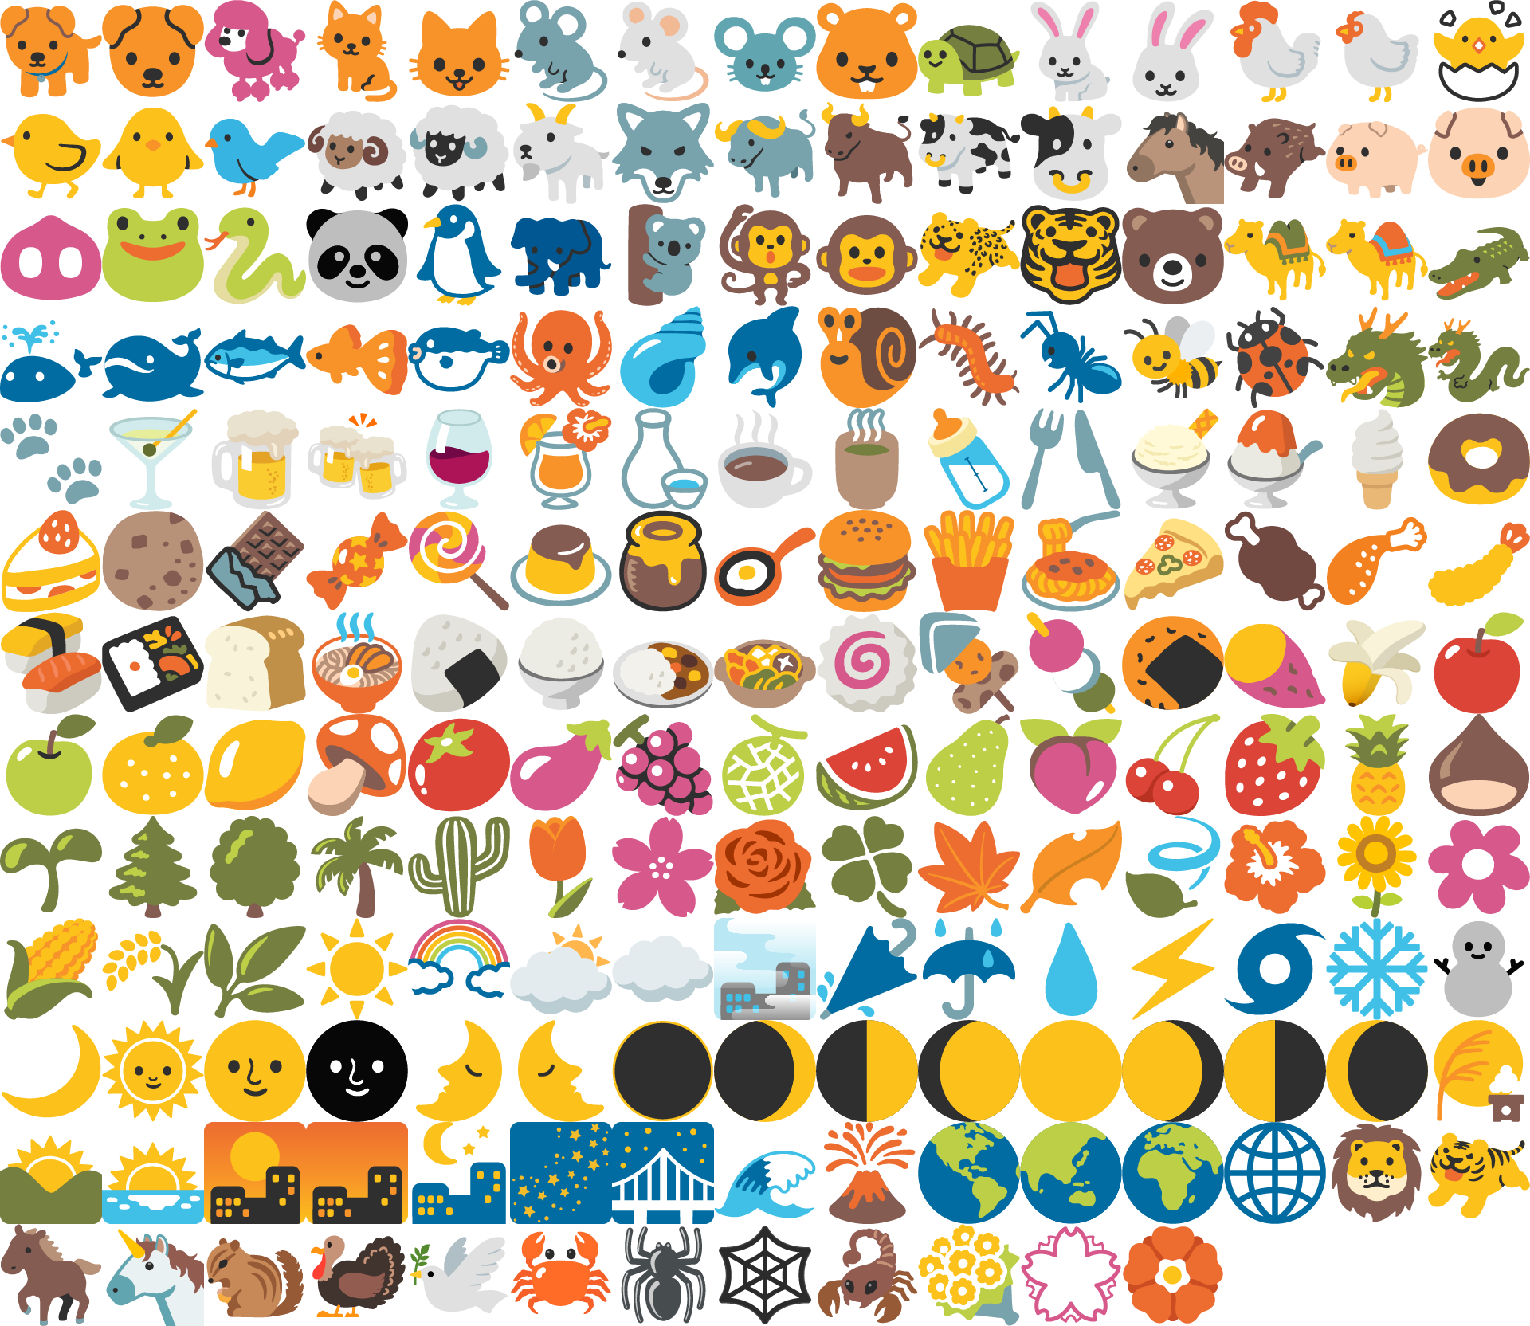
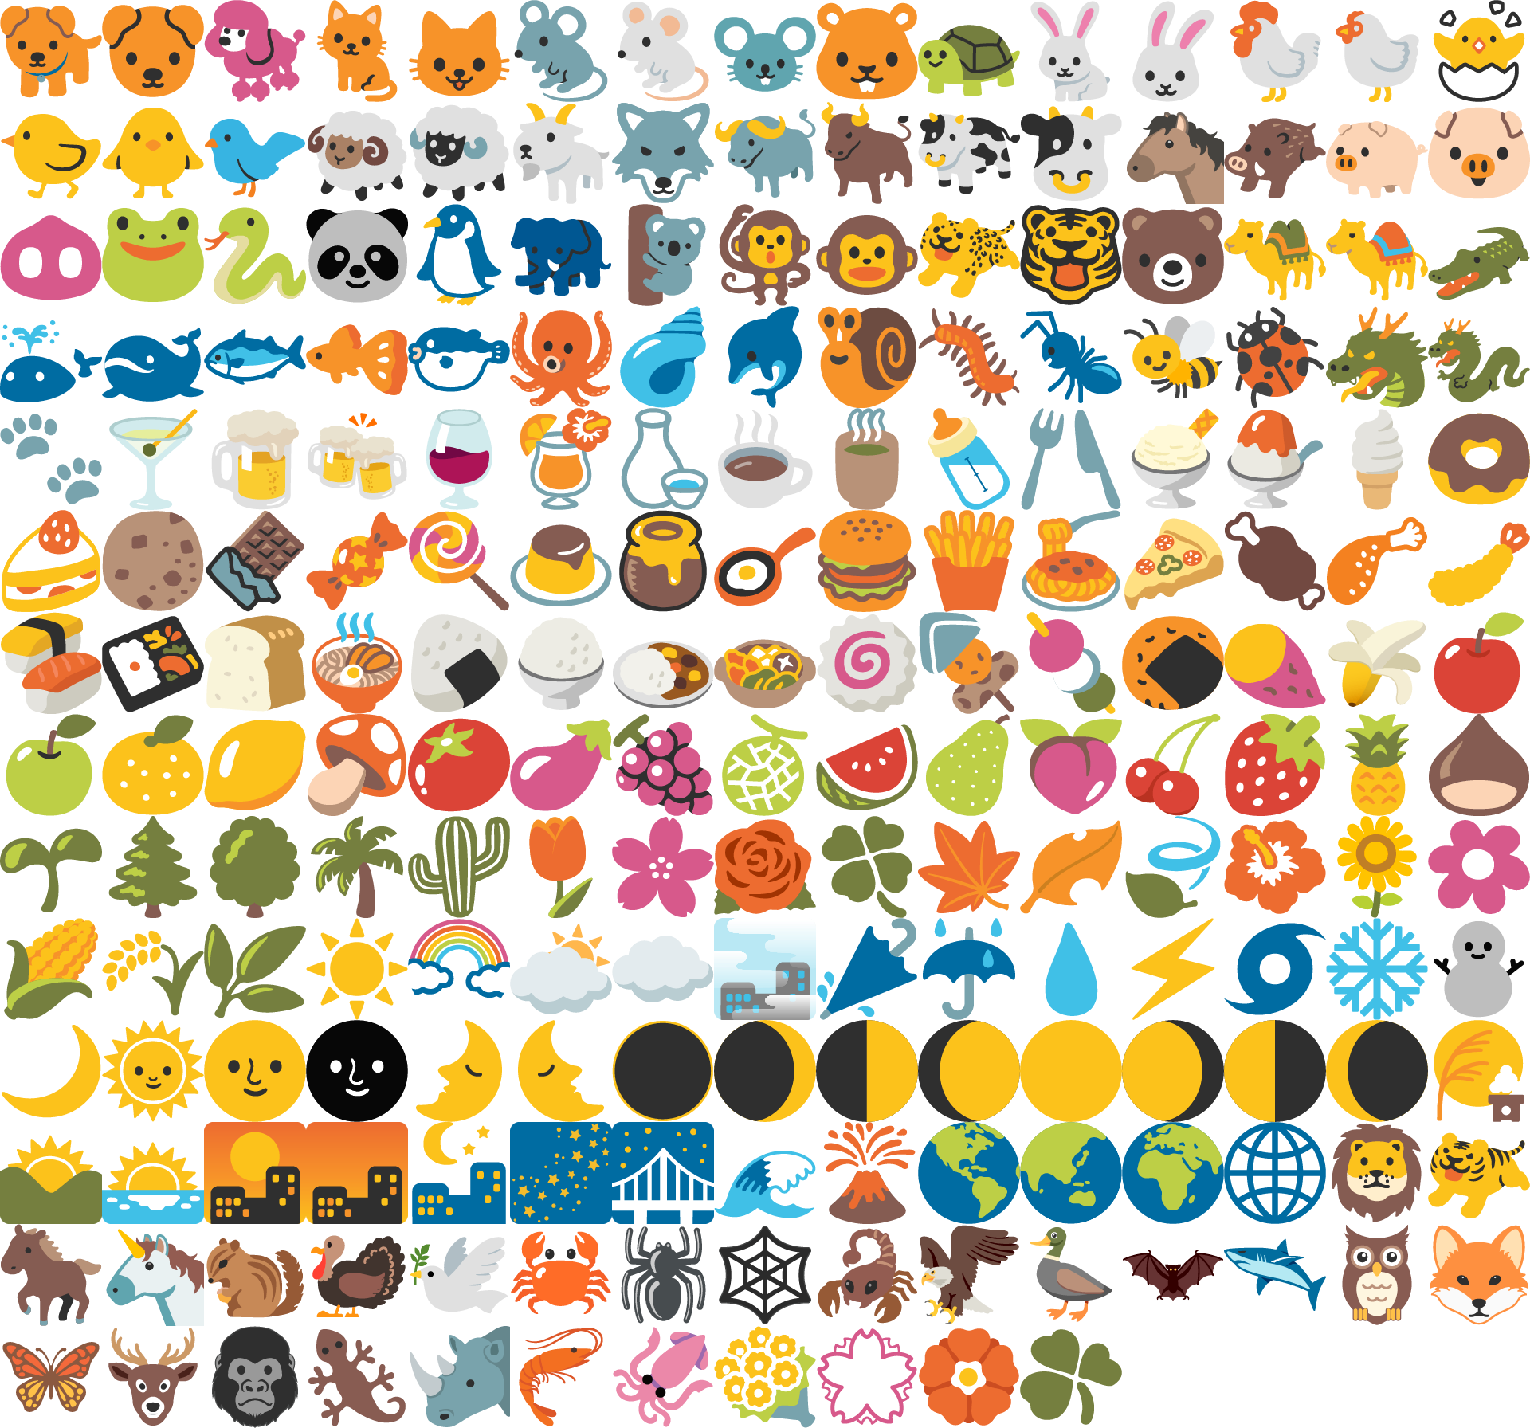
update emojis, enable 🤠!

diff --git a/src/org/smssecure/smssecure/components/emoji/EmojiPages.java b/src/org/smssecure/smssecure/components/emoji/EmojiPages.java
@@ -29,15 +29,20 @@ public class EmojiPages {
       "\ud83d\udc85", "\ud83d\udc7b", "\ud83d\udc79", "\ud83d\udc7a", "\ud83d\udc7d", "\ud83d\udc7e",
       "\ud83d\udc7f", "\ud83d\udc80", "\ud83d\udcaa", "\ud83d\udc40", "\ud83d\udc42", "\ud83d\udc43",
       "\ud83d\udc63", "\ud83d\udc44", "\ud83d\udc45", "\ud83d\udc8b", "\u2764",       "\ud83d\udc99",
-      "\ud83d\udc9a", "\ud83d\udc9b", "\ud83d\udc9c", "\ud83d\udc93", "\ud83d\udc94", "\ud83d\udc95",
-      "\ud83d\udc96", "\ud83d\udc97", "\ud83d\udc98", "\ud83d\udc9d", "\ud83d\udc9e", "\ud83d\udc9f",
-      "\ud83d\udc4d", "\ud83d\udc4e", "\ud83d\udc4c", "\u270a",       "\u270c",       "\u270b",
-      "\ud83d\udc4a", "\u261d",       "\ud83d\udc46", "\ud83d\udc47", "\ud83d\udc48", "\ud83d\udc49",
-      "\ud83d\udc4b", "\ud83d\udc4f", "\ud83d\udc50", "\ud83d\ude42", "\ud83e\udd17", "\ud83e\udd14",
-      "\ud83d\ude44", "\ud83e\udd10", "\ud83e\udd13", "\ud83d\ude41", "\ud83d\ude43", "\ud83e\udd12",
-      "\ud83e\udd15", "\ud83e\udd11", "\ud83e\udd16", "\ud83d\udd75", "\ud83d\udde3", "\ud83d\udeb6",
-      "\ud83c\udfc3", "\ud83d\udd74", "\ud83d\udd95", "\ud83d\udd96", "\ud83e\udd18", "\ud83d\udd90",
-      "\ud83d\udc41", "\ud83d\udc8c", "\ud83d\udca4", "\ud83d\udca2", "\ud83d\udca3", "\ud83d\udca5",
+      "\ud83d\udc9a", "\ud83d\udc9b", "\ud83d\udc9c", "\ud83d\udc93", "\ud83e\udd20", "\ud83e\udd21",
+      "\ud83e\udd22", "\ud83e\udd23", "\ud83e\udd24", "\ud83e\udd25", "\ud83e\udd26", "\ud83e\udd27",
+      "\ud83e\udd30", "\ud83e\udd33", "\ud83e\udd34", "\ud83e\udd35", "\ud83e\udd36", "\ud83e\udd37",
+      "\ud83d\udc94", "\ud83d\udc95", "\ud83d\udc96", "\ud83d\udc97", "\ud83d\udc98", "\ud83d\udc9d",
+      "\ud83d\udc9e", "\ud83d\udc9f", "\ud83d\udc4d", "\ud83d\udc4e", "\ud83d\udc4c", "\u270a",
+      "\u270c",       "\u270b",       "\ud83d\udc4a", "\u261d",       "\ud83d\udc46", "\ud83d\udc47",
+      "\ud83d\udc48", "\ud83d\udc49", "\ud83d\udc4b", "\ud83d\udc4f", "\ud83d\udc50", "\ud83e\udd19",
+      "\ud83e\udd1a", "\ud83e\udd1b", "\ud83e\udd1c", "\ud83e\udd1d", "\ud83e\udd1e", "\ud83d\ude42",
+      "\ud83e\udd17", "\ud83e\udd14", "\ud83d\ude44", "\ud83e\udd10", "\ud83e\udd13", "\u2639",
+      "\ud83d\ude41", "\ud83d\ude43", "\ud83e\udd12", "\ud83e\udd15", "\ud83e\udd11", "\u2620",
+      "\ud83e\udd16", "\u26d1",       "\ud83d\udd75", "\ud83d\udde3", "\ud83d\udeb6", "\ud83c\udfc3",
+      "\ud83d\udd74", "\ud83c\udffb", "\ud83c\udffc", "\ud83c\udffd", "\ud83c\udffe", "\ud83c\udfff",
+      "\ud83d\udd95", "\ud83d\udd96", "\ud83e\udd18", "\ud83d\udd90", "\u270d",       "\ud83d\udc41",
+      "\u2763",       "\ud83d\udc8c", "\ud83d\udca4", "\ud83d\udca2", "\ud83d\udca3", "\ud83d\udca5",
       "\ud83d\udca6", "\ud83d\udca8", "\ud83d\udcab", "\ud83d\udcac", "\ud83d\udde8", "\ud83d\uddef",
       "\ud83d\udcad", "\ud83d\udd73", "\ud83d\udc53", "\ud83d\udd76", "\ud83d\udc54", "\ud83d\udc55",
       "\ud83d\udc56", "\ud83d\udc57", "\ud83d\udc58", "\ud83d\udc59", "\ud83d\udc5a", "\ud83d\udc5b",
@@ -68,17 +73,23 @@ public class EmojiPages {
       "\ud83c\udfab", "\ud83c\udfae", "\ud83c\udfb2", "\ud83c\udfb0", "\ud83c\udccf", "\ud83c\udfb4",
       "\ud83c\udc04", "\ud83c\udfaf", "\ud83d\udcfa", "\ud83d\udcfb", "\ud83d\udcc0", "\ud83d\udcfc",
       "\ud83c\udfa7", "\ud83c\udfa4", "\ud83c\udfb5", "\ud83c\udfb6", "\ud83c\udfbc", "\ud83c\udfbb",
-      "\ud83c\udfb9", "\ud83c\udfb7", "\ud83c\udfba", "\ud83c\udfb8", "\u303d",       "\ud83c\udf36",
-      "\ud83e\uddc0", "\ud83c\udf2d", "\ud83c\udf2e", "\ud83c\udf2f", "\ud83c\udf7f", "\ud83c\udf7e",
-      "\ud83c\udf7d", "\ud83c\udffa", "\ud83d\udd07", "\ud83d\udd08", "\ud83d\udd09", "\ud83d\udd0a",
-      "\ud83c\udf99", "\ud83c\udf9a", "\ud83c\udf9b", "\ud83d\udda5", "\ud83d\udda8", "\u2328",
-      "\ud83d\uddb1", "\ud83d\uddb2", "\ud83d\udcfd", "\ud83d\udcf8", "\ud83d\udd0d", "\ud83d\udd0e",
-      "\ud83d\udd6f", "\ud83d\udca1", "\ud83c\udfee", "\ud83d\uddde", "\ud83d\udd16", "\ud83d\udce7",
-      "\ud83d\uddf3", "\ud83d\udd8b", "\ud83d\udd8a", "\ud83d\udd8c", "\ud83d\udd8d", "\ud83d\uddc2",
-      "\ud83d\uddd2", "\ud83d\uddd3", "\ud83d\udd87", "\ud83d\uddc3", "\ud83d\uddc4", "\ud83d\uddd1",
-      "\ud83d\udd12", "\ud83d\udd13", "\ud83d\udd0f", "\ud83d\udd10", "\ud83d\udd11", "\ud83d\udddd",
-      "\ud83d\udd28", "\ud83d\udee0", "\ud83d\udd27", "\ud83d\udd29", "\ud83d\udddc", "\ud83d\udd17",
-      "\ud83d\udde1", "\ud83d\udee1", "\ud83c\udff9", "\ud83d\uddff", "\ud83d\udee2",
+      "\ud83c\udfb9", "\ud83c\udfb7", "\ud83c\udfba", "\ud83c\udfb8", "\u303d",       "\ud83e\udd40",
+      "\ud83e\udd41", "\ud83e\udd42", "\ud83e\udd43", "\ud83e\udd44", "\ud83e\udd45", "\ud83e\udd47",
+      "\ud83e\udd48", "\ud83e\udd49", "\ud83e\udd4a", "\ud83e\udd4b", "\ud83c\udf36", "\ud83e\uddc0",
+      "\ud83c\udf2d", "\ud83c\udf2e", "\ud83c\udf2f", "\ud83c\udf7f", "\ud83c\udf7e", "\ud83c\udf7d",
+      "\ud83c\udffa", "\ud83e\udd50", "\ud83e\udd51", "\ud83e\udd52", "\ud83e\udd53", "\ud83e\udd54",
+      "\ud83e\udd55", "\ud83e\udd56", "\ud83e\udd57", "\ud83e\udd58", "\ud83e\udd59", "\ud83e\udd5a",
+      "\ud83e\udd5b", "\ud83e\udd5c", "\ud83e\udd5d", "\ud83e\udd5e", "\ud83d\udd07", "\ud83d\udd08",
+      "\ud83d\udd09", "\ud83d\udd0a", "\ud83c\udf99", "\ud83c\udf9a", "\ud83c\udf9b", "\ud83d\udda5",
+      "\ud83d\udda8", "\u2328",       "\ud83d\uddb1", "\ud83d\uddb2", "\ud83d\udcfd", "\ud83d\udcf8",
+      "\ud83d\udd0d", "\ud83d\udd0e", "\ud83d\udd6f", "\ud83d\udca1", "\ud83c\udfee", "\ud83d\uddde",
+      "\ud83d\udd16", "\ud83d\udce7", "\ud83d\uddf3", "\ud83d\udd8b", "\ud83d\udd8a", "\ud83d\udd8c",
+      "\ud83d\udd8d", "\ud83d\uddc2", "\ud83d\uddd2", "\ud83d\uddd3", "\ud83d\udd87", "\ud83d\uddc3",
+      "\ud83d\uddc4", "\ud83d\uddd1", "\ud83d\udd12", "\ud83d\udd13", "\ud83d\udd0f", "\ud83d\udd10",
+      "\ud83d\udd11", "\ud83d\udddd", "\ud83d\udd28", "\u26cf",       "\u2692",       "\ud83d\udee0",
+      "\ud83d\udd27", "\ud83d\udd29", "\u2699",       "\ud83d\udddc", "\u2697",       "\u2696",
+      "\ud83d\udd17", "\u26d3",       "\ud83d\udde1", "\u2694",       "\ud83d\udee1", "\ud83c\udff9",
+      "\u26b0", "\u26b1", "\ud83d\uddff", "\ud83d\udee2",
     }, "emoji_objects.png"),
     new StaticEmojiPageModel(R.attr.emoji_category_nature, new String[] {
       "\ud83d\udc15", "\ud83d\udc36", "\ud83d\udc29", "\ud83d\udc08", "\ud83d\udc31", "\ud83d\udc00",
@@ -112,7 +123,10 @@ public class EmojiPages {
       "\ud83c\udf06", "\ud83c\udf03", "\ud83c\udf0c", "\ud83c\udf09", "\ud83c\udf0a", "\ud83c\udf0b",
       "\ud83c\udf0e", "\ud83c\udf0f", "\ud83c\udf0d", "\ud83c\udf10", "\ud83e\udd81", "\ud83d\udc05",
       "\ud83d\udc0e", "\ud83e\udd84", "\ud83d\udc3f", "\ud83e\udd83", "\ud83d\udd4a", "\ud83e\udd80",
-      "\ud83d\udd77", "\ud83d\udd78", "\ud83e\udd82", "\ud83d\udc90", "\ud83d\udcae", "\ud83c\udff5",
+      "\ud83d\udd77", "\ud83d\udd78", "\ud83e\udd82", "\ud83e\udd85", "\ud83e\udd86", "\ud83e\udd87",
+      "\ud83e\udd88", "\ud83e\udd89", "\ud83e\udd8a", "\ud83e\udd8b", "\ud83e\udd8c", "\ud83e\udd8d",
+      "\ud83e\udd8e", "\ud83e\udd8f", "\ud83e\udd90", "\ud83e\udd91", "\ud83d\udc90", "\ud83d\udcae",
+      "\ud83c\udff5", "\u2618",
     }, "emoji_nature.png"),
     new StaticEmojiPageModel(R.attr.emoji_category_places, new String[] {
       "\ud83c\udfe0", "\ud83c\udfe1", "\ud83c\udfe2", "\ud83c\udfe3", "\ud83c\udfe4", "\ud83c\udfe5",
@@ -127,13 +141,15 @@ public class EmojiPages {
       "\ud83d\ude9e", "\ud83d\ude9f", "\ud83d\udea0", "\ud83d\udea1", "\ud83d\udea2", "\ud83d\udea3",
       "\ud83d\ude81", "\u2708",       "\u26f5",       "\ud83d\udeb2", "\ud83d\ude89", "\ud83d\ude80",
       "\ud83d\udea4", "\u26fd",       "\ud83d\udea5", "\ud83d\udea6", "\ud83d\udea7", "\ud83d\udea8",
-      "\u2668",       "\ud83d\udc92", "\ud83d\uddfa", "\ud83c\udfd4", "\ud83c\udfd5", "\ud83c\udfd6",
-      "\ud83c\udfdc", "\ud83c\udfdd", "\ud83c\udfde", "\ud83c\udfdf", "\ud83c\udfdb", "\ud83c\udfd7",
-      "\ud83c\udfd8", "\ud83c\udfd9", "\ud83c\udfda", "\ud83d\udd4b", "\ud83d\udd4c", "\ud83d\udd4d",
-      "\ud83d\uddbc", "\ud83d\udee3", "\ud83d\udee4", "\ud83d\udef3", "\ud83d\udee5", "\ud83d\udee9",
-      "\ud83d\udeeb", "\ud83d\udeec", "\ud83d\udef0", "\ud83d\udece", "\ud83d\udecc", "\ud83d\udecf",
-      "\ud83d\udecb", "\ud83d\udd70", "\ud83c\udf21", "\ud83c\udf24", "\ud83c\udf25", "\ud83c\udf26",
+      "\u2668",       "\ud83d\udc92", "\ud83d\uddfa", "\ud83c\udfd4", "\u26f0",       "\ud83c\udfd5",
+      "\ud83c\udfd6", "\ud83c\udfdc", "\ud83c\udfdd", "\ud83c\udfde", "\ud83c\udfdf", "\ud83c\udfdb",
+      "\ud83c\udfd7", "\ud83c\udfd8", "\ud83c\udfd9", "\ud83c\udfda", "\ud83d\udd4b", "\ud83d\udd4c",
+      "\ud83d\udd4d", "\u26e9",       "\ud83d\uddbc", "\ud83d\udee3", "\ud83d\udee4", "\ud83d\udef3",
+      "\u26f4",       "\ud83d\udee5", "\ud83d\udee9", "\ud83d\udeeb", "\ud83d\udeec", "\ud83d\udef0",
+      "\ud83d\udece", "\ud83d\udecc", "\ud83d\udecf", "\ud83d\udecb", "\u23f1",       "\u23f2",
+      "\ud83d\udd70", "\ud83c\udf21", "\u26c8",       "\ud83c\udf24", "\ud83c\udf25", "\ud83c\udf26",
       "\ud83c\udf27", "\ud83c\udf28", "\ud83c\udf29", "\ud83c\udf2a", "\ud83c\udf2b", "\ud83c\udf2c",
+      "\u2602",       "\u26f1",       "\u2603",       "\u2604",
     }, "emoji_places.png"),
     new StaticEmojiPageModel(R.attr.emoji_category_symbol, new String[] {
       "\ud83d\udd1d", "\ud83d\udd19", "\ud83d\udd1b", "\ud83d\udd1c", "\ud83d\udd1a", "\u23f3",
@@ -167,17 +183,21 @@ public class EmojiPages {
       "\u2757",       "\u203c",       "\u2049",       "\u3030",       "\u27b0",       "\u2660",
       "\u2665",       "\u2663",       "\u2666",       "\ud83c\udd94", "\u21a9",       "\ud83c\udd91",
       "\u21aa",       "\u2611",       "\ud83d\udd18", "\ud83d\udd03", "\ud83d\udd00", "\ud83d\udd01",
-      "\ud83d\udd02", "\ud83d\udd04", "\ud83d\udd05", "\ud83d\udd06", "\ud83c\udfc1", "\ud83c\udff3",
-      "\ud83c\udff4", "\ud83c\udfe7", "\ud83d\udebe", "\ud83d\udec2", "\ud83d\udec3", "\ud83d\udec4",
-      "\ud83d\udec5", "\ud83d\udeb8", "\ud83d\udeb3", "\ud83d\udeb7", "\u2622",       "\u2623",
-      "\ud83d\uded0", "\u269b",       "\u23ed",       "\u23ef",       "\u23ee",       "\u23f8",
+      "\ud83d\udd02", "\ud83d\udd04", "\ud83d\udd05", "\ud83d\udd06", "\ud83d\udda4", "\ud83d\uded1",
+      "\ud83c\udfc1", "\ud83c\udff3", "\ud83c\udff4", "\ud83c\udfe7", "\ud83d\udebe", "\ud83d\udec2",
+      "\ud83d\udec3", "\ud83d\udec4", "\ud83d\udec5", "\ud83d\udeb8", "\ud83d\udeb3", "\ud83d\udeb7",
+      "\u2622",       "\u2623",       "\ud83d\uded0", "\u269b",       "\ud83d\udd49", "\u2721",
+      "\u2638",       "\u262f",       "\u271d",       "\u2626",       "\u262a",       "\u262e",
+      "\ud83d\udd4e", "\u269c",       "\u23ed",       "\u23ef",       "\u23ee",       "\u23f8",
       "\u23f9",       "\u23fa",       "\u23cf",       "\ud83d\udd1f", "\u24c2",       "\ud83c\udd7f",
       "\ud83c\udf96", "\ud83c\udf97", "\ud83c\udf9e", "\ud83c\udf9f", "\ud83c\udff7", "\u26bd",
       "\u26be",       "\ud83c\udfc0", "\ud83c\udfc8", "\ud83c\udfc9", "\ud83c\udfbe", "\ud83c\udfb1",
-      "\ud83c\udfb3", "\u26f3",       "\ud83c\udfcc", "\ud83c\udfa3", "\ud83c\udfbd", "\ud83c\udfbf",
-      "\ud83c\udfc2", "\ud83c\udfc4", "\ud83c\udfc7", "\ud83c\udfca", "\ud83c\udfcb", "\ud83d\udeb4",
-      "\ud83d\udeb5", "\ud83c\udfce", "\ud83c\udfcd", "\ud83c\udfc5", "\ud83c\udfc6", "\ud83c\udfcf",
-      "\ud83c\udfd0", "\ud83c\udfd1", "\ud83c\udfd2", "\ud83c\udfd3", "\ud83c\udff8", "\ud83d\udd79",
+      "\ud83c\udfb3", "\u26f3",       "\ud83c\udfcc", "\u26f8",       "\ud83c\udfa3", "\ud83c\udfbd",
+      "\ud83c\udfbf", "\u26f7",       "\ud83c\udfc2", "\ud83c\udfc4", "\ud83c\udfc7", "\ud83c\udfca",
+      "\u26f9",       "\ud83c\udfcb", "\ud83d\udeb4", "\ud83d\udeb5", "\ud83c\udfce", "\ud83c\udfcd",
+      "\ud83c\udfc5", "\ud83c\udfc6", "\ud83c\udfcf", "\ud83c\udfd0", "\ud83c\udfd1", "\ud83c\udfd2",
+      "\ud83c\udfd3", "\ud83c\udff8", "\ud83d\udd79", "\ud83e\udd38", "\ud83e\udd39", "\ud83e\udd3a",
+      "\ud83e\udd3c", "\ud83e\udd3d", "\ud83e\udd3e",
     }, "emoji_symbols.png"),
     new StaticEmojiPageModel(R.attr.emoji_category_flags, new String[] {
       "\ud83c\udde6\ud83c\udde9", "\ud83c\udde6\ud83c\uddea", "\ud83c\udde6\ud83c\uddeb",
